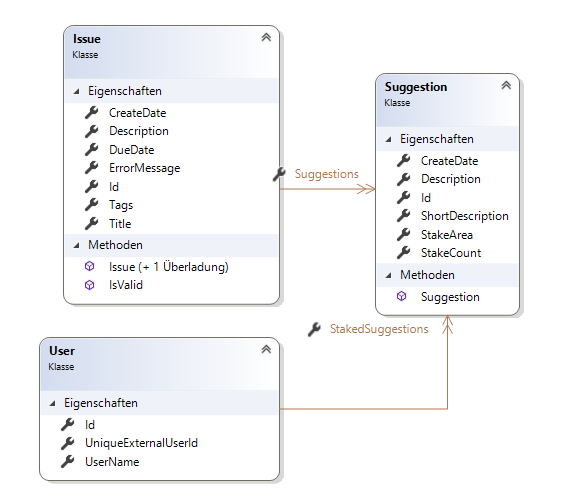
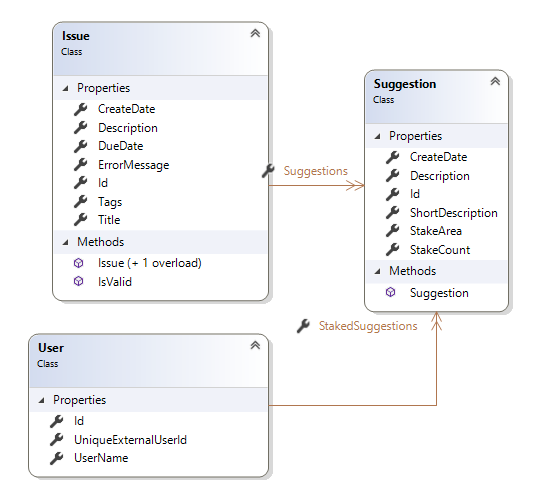
Restructure  + Class Diagram now in English

Changed region(s): [[0.0299, 0.03, 0.957, 0.99]]

diff --git a/Frontend/Common/Entities/Issue.cs b/Frontend/Common/Entities/Issue.cs
@@ -123,6 +123,8 @@ namespace Common
         /// </returns>
         public bool IsValid()
         {
+            // TODO: put into service - entity should be data only
+
             if (string.IsNullOrEmpty(Tags))
             {
                 ErrorMessage = "Tags are required";
